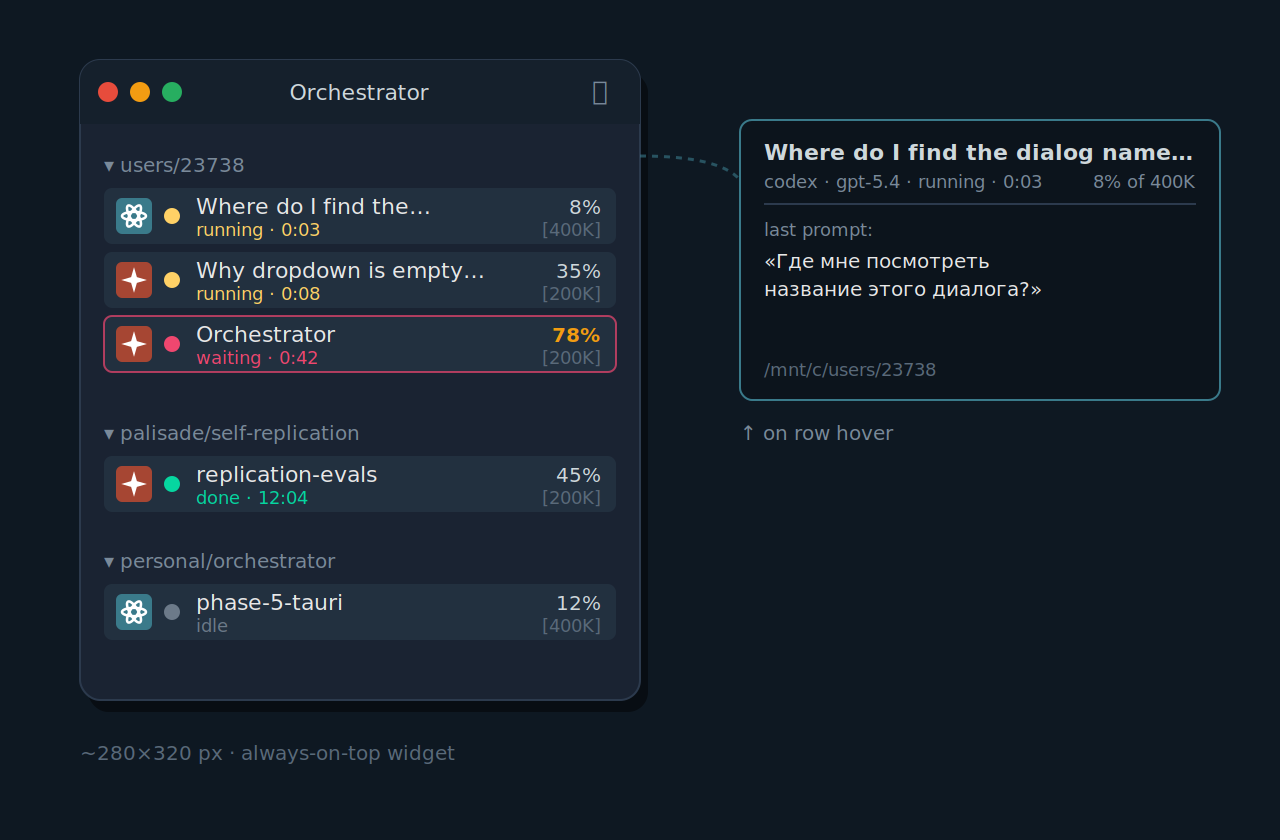
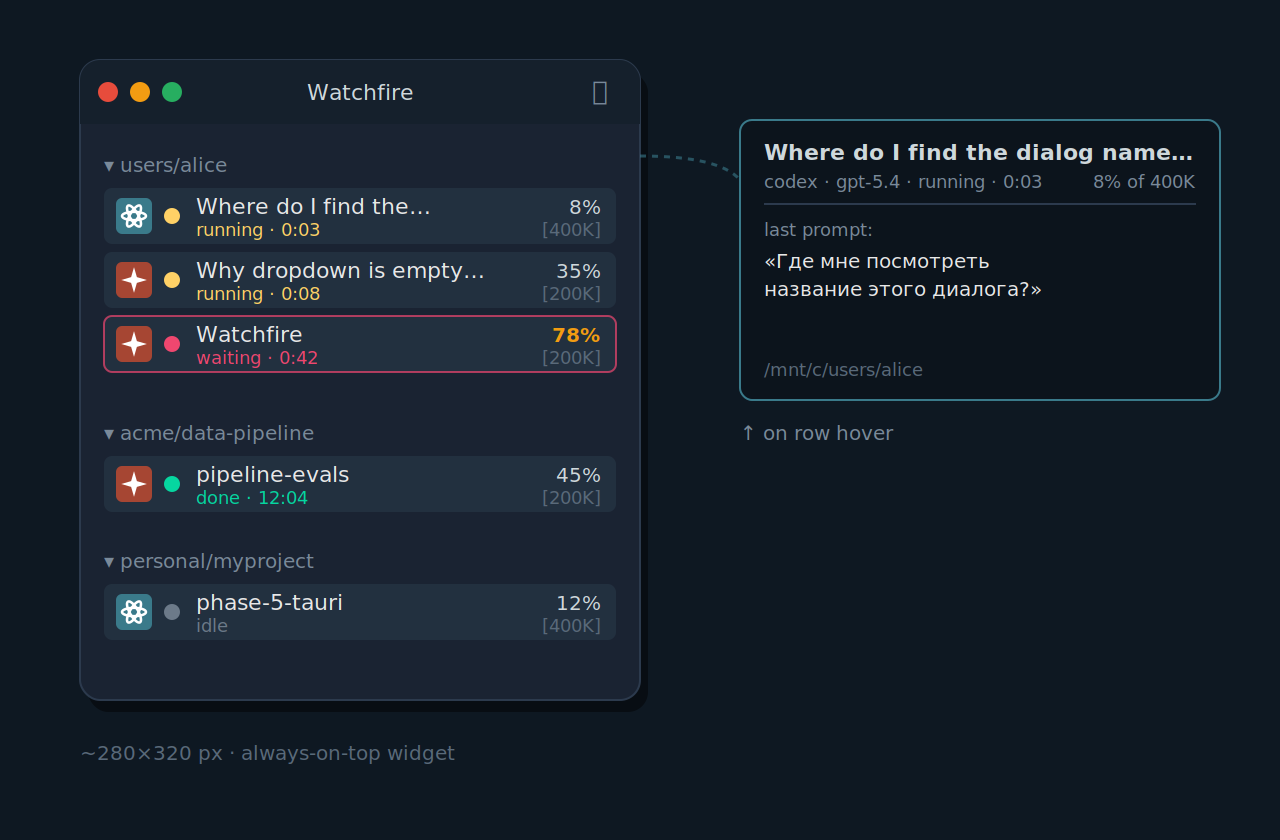
chore: scrub personal identifiers from the public repo
The repo is public, and tracked files carried the author's local account
names, directory layout and two private project names. Nothing secret —
no keys, tokens or credentials — but none of it belongs here, and the
hardcoded paths also made the example hook configs wrong on any other
machine.

- docs/install/*.json: the hook command path becomes /path/to/watchfire,
  so the examples are now placeholders to fill in rather than one
  machine's absolute paths.
- docs/watchfire_mockup.svg + .png: sample rows use alice / acme
  data-pipeline. The PNG is re-rendered from the SVG, which also picks up
  the rename the SVG already had and the PNG still showed (Orchestrator).
- tests, and comments in emit_state.py / index.js: neutral stand-ins.

Behaviour is untouched; only fixture and comment strings moved.

One test got sharper as a side effect. test_wsl_drive_cwd_is_lowercased
used a digits-only account name, so lowercasing it was a no-op and the
assertion could not see what the hook does to that segment. With an
alphabetic name it is visible: the hook folds the drive letter and the
`Users` literal but leaves the account segment's case alone. That is what
the code documents, so the test now asserts it explicitly.

Suite green: 33 pytest + 48 server + 62 widget.

diff --git a/tests/server/chats-all.test.js b/tests/server/chats-all.test.js
@@ -49,19 +49,19 @@ test("listAllChats merges claude + codex from all cwds", async () => {
 });
 
 test("listAllChats reads cwd from the claude transcript itself, not the flattened dir name", async () => {
-  // Reverse-flattening `-home-nj-projects-palisade-self-replication` to a
+  // Reverse-flattening `-home-u-projects-acme-data-pipeline` to a
   // path loses the hyphen vs slash distinction. The transcript's `cwd`
-  // field is the source of truth — `self-replication` (one segment), not
+  // field is the source of truth — `data-pipeline` (one segment), not
   // `self/replication` (two).
   const claudeDir = await tmpDir("ca-claude-cwd");
   await writeJsonl(
-    path.join(claudeDir, "-home-nj-projects-palisade-self-replication", "s.jsonl"),
-    [{ type: "user", cwd: "/home/nj/projects/palisade/self-replication",
+    path.join(claudeDir, "-home-u-projects-acme-data-pipeline", "s.jsonl"),
+    [{ type: "user", cwd: "/home/u/projects/acme/data-pipeline",
        message: { content: "x" } }],
   );
   const out = await listAllChats({ claudeDir, codexDir: await emptyCodexDir(), codexCache: freshCache() });
   assert.equal(out.length, 1);
-  assert.equal(out[0].cwd, "/home/nj/projects/palisade/self-replication");
+  assert.equal(out[0].cwd, "/home/u/projects/acme/data-pipeline");
 });
 
 test("listAllChats falls back to reverse-flattened name when transcript has no cwd field", async () => {
@@ -101,9 +101,9 @@ test("listAllChats skips cron-sandbox project dirs (daily-summary, meeting-summa
   const claudeDir = await tmpDir("ca-claude-cron");
   // Two cron-sandbox dirs and one real one.
   for (const dir of [
-    "-home-nj--claude-daily-summary-2026-05",
-    "-home-nj--claude-meeting-summaries-2026-05",
-    "-home-nj-projects-real",
+    "-home-u--claude-daily-summary-2026-05",
+    "-home-u--claude-meeting-summaries-2026-05",
+    "-home-u-projects-real",
   ]) {
     await writeJsonl(
       path.join(claudeDir, dir, "s.jsonl"),

diff --git a/tests/server/chats.test.js b/tests/server/chats.test.js
@@ -87,13 +87,13 @@ test("extractCodexTranscriptMeta uses session_meta.payload.cwd", async () => {
   const dir = await tmpDir("codex-meta");
   const fp = path.join(dir, "rollout-2026-01-01T00-00-00-019d1234-5678-7abc-9def-0123456789ab.jsonl");
   await writeJsonl(fp, [
-    { type: "session_meta",  payload: { cwd: "/home/nj/proj" } },
+    { type: "session_meta",  payload: { cwd: "/home/u/proj" } },
     { type: "response_item", payload: { type: "message", role: "user",
-        content: [{ type: "input_text", text: "<environment_context><cwd>/home/nj/proj</cwd></environment_context>" }] } },
+        content: [{ type: "input_text", text: "<environment_context><cwd>/home/u/proj</cwd></environment_context>" }] } },
     { type: "event_msg", payload: { type: "user_message", message: "real first prompt" } },
   ]);
   const meta = await extractCodexTranscriptMeta(fp);
-  assert.equal(meta.cwd, "/home/nj/proj");
+  assert.equal(meta.cwd, "/home/u/proj");
   assert.equal(meta.first_prompt, "real first prompt");
   assert.equal(meta.session_id, "019d1234-5678-7abc-9def-0123456789ab");
   assert.equal(meta.agent, "codex");

diff --git a/server/index.js b/server/index.js
@@ -90,8 +90,8 @@ async function handleRequest(req, res) {
     let body = {};
     try { body = await readBody(req); } catch {}
     // Prefer the user-set name (set via /rename — Claude pushes that to the
-    // terminal title). Fallback to the last cwd segment ("23738",
-    // "self-replication", …) — usually present in default WT tab titles.
+    // terminal title). Fallback to the last cwd segment ("alice",
+    // "my-project", …) — usually present in default WT tab titles.
     const lastCwd = body.cwd ? String(body.cwd).split("/").filter(Boolean).pop() : "";
     const tabName = body.name || lastCwd || "";
     const result = await focusWindowsTerminal(tabName);

diff --git a/tests/widget/format.test.js b/tests/widget/format.test.js
@@ -11,9 +11,9 @@ import {
 // --- shortPath ------------------------------------------------------------
 
 test("shortPath returns last two segments", () => {
-  assert.equal(shortPath("/home/nj/projects/palisade/self-replication"),
-               "palisade/self-replication");
-  assert.equal(shortPath("/mnt/c/users/23738"), "users/23738");
+  assert.equal(shortPath("/home/u/projects/acme/data-pipeline"),
+               "acme/data-pipeline");
+  assert.equal(shortPath("/mnt/c/users/alice"), "users/alice");
 });
 
 test("shortPath handles short and missing paths", () => {

diff --git a/tests/widget/history.test.js b/tests/widget/history.test.js
@@ -155,8 +155,8 @@ test("renderHistoryByTimeHtml shows project tag inline next to each row", () => 
   // "by time" view shows shortPath(cwd) so the user knows which project
   // each chat belonged to without scrolling back to a group header.
   const html = renderHistoryByTimeHtml([
-    c({ name: "n", cwd: "/home/nj/projects/palisade/self-replication",
+    c({ name: "n", cwd: "/home/u/projects/acme/data-pipeline",
         last_modified: MS(NOW - 60) }),
   ], NOW);
-  assert.match(html, /palisade\/self-replication/);
+  assert.match(html, /acme\/data-pipeline/);
 });

diff --git a/tests/hooks/test_filters.py b/tests/hooks/test_filters.py
@@ -15,7 +15,7 @@ def test_daily_summary_cwd_writes_nothing(run_hook, state_dir):
     out = run_hook({
         "session_id": "s1",
         "hook_event_name": "UserPromptSubmit",
-        "cwd": "/home/nj/.claude-daily-summary/2026-05",
+        "cwd": "/home/u/.claude-daily-summary/2026-05",
         "prompt": "summarize",
     })
     assert out is None
@@ -26,7 +26,7 @@ def test_meeting_summary_cwd_writes_nothing(run_hook, state_dir):
     out = run_hook({
         "session_id": "s1",
         "hook_event_name": "UserPromptSubmit",
-        "cwd": "/home/nj/.claude-meeting-summaries/2026-05",
+        "cwd": "/home/u/.claude-meeting-summaries/2026-05",
         "prompt": "summarize",
     })
     assert out is None
@@ -47,18 +47,21 @@ def test_wsl_drive_cwd_is_lowercased(run_hook):
     s = run_hook({
         "session_id": "s1",
         "hook_event_name": "SessionStart",
-        "cwd": "/mnt/c/Users/23738",
+        "cwd": "/mnt/c/Users/Alice",
     })
-    assert s["cwd"] == "/mnt/c/users/23738"
+    # Only the drive letter and the `Users` literal are folded — the account
+    # segment keeps its case. That's the whole difference Codex introduces
+    # (/mnt/c/Users -> /mnt/c/users); folding further would be guesswork.
+    assert s["cwd"] == "/mnt/c/users/Alice"
 
 
 def test_wsl_non_drive_cwd_is_left_alone(run_hook):
     s = run_hook({
         "session_id": "s1",
         "hook_event_name": "SessionStart",
-        "cwd": "/home/nj/projects/Palisade/Self-Replication",
+        "cwd": "/home/u/projects/Acme/Mixed-Case",
     })
-    assert s["cwd"] == "/home/nj/projects/Palisade/Self-Replication"
+    assert s["cwd"] == "/home/u/projects/Acme/Mixed-Case"
 
 
 # --- model_limit ----------------------------------------------------------
@@ -116,7 +119,7 @@ def test_agent_tty_rejects_non_tty(monkeypatch):
     escapes into a file. /dev/tty itself is rejected too (we want the concrete
     pts, and opening /dev/tty from the hook fails with ENXIO anyway)."""
     import os, emit_state
-    monkeypatch.setattr(os, "readlink", lambda p: "/home/nj/session.log")
+    monkeypatch.setattr(os, "readlink", lambda p: "/home/u/session.log")
     assert emit_state.agent_tty(123) is None
     monkeypatch.setattr(os, "readlink", lambda p: "/dev/tty")
     assert emit_state.agent_tty(123) is None

diff --git a/tests/hooks/test_transcript_parsing.py b/tests/hooks/test_transcript_parsing.py
@@ -124,13 +124,13 @@ def test_extract_claude_meta_no_match_returns_blanks(tmp_path):
 
 CODEX_TRANSCRIPT = "\n".join([
     json.dumps({"type": "session_meta", "payload": {
-        "id": "019d-...", "cwd": "/home/nj/proj"}}),
+        "id": "019d-...", "cwd": "/home/u/proj"}}),
     # The first user 'message' is the synthetic environment_context — must
     # NOT be picked as first_prompt.
     json.dumps({"type": "response_item", "payload": {
         "type": "message", "role": "user",
         "content": [{"type": "input_text",
-                     "text": "<environment_context><cwd>/home/nj/proj</cwd></environment_context>"}],
+                     "text": "<environment_context><cwd>/home/u/proj</cwd></environment_context>"}],
     }}),
     json.dumps({"type": "event_msg", "payload": {
         "type": "user_message", "message": "real first prompt"}}),
@@ -192,7 +192,7 @@ def test_codex_does_not_write_tab_title(run_hook):
     s = run_hook({
         "session_id": "cx-notitle",
         "hook_event_name": "UserPromptSubmit",
-        "cwd": "/home/nj/projects/personal/earbuddy",
+        "cwd": "/home/u/projects/personal/myapp",
         "prompt": "hi",
     }, agent="codex")
     assert "_tab_title" not in s

diff --git a/hooks/emit_state.py b/hooks/emit_state.py
@@ -464,7 +464,7 @@ def main() -> int:
     # Lowercase only the WSL drive prefix, not the whole path (case-sensitive elsewhere).
     if cwd.startswith("/mnt/"):
         parts = cwd.split("/")
-        # parts = ['', 'mnt', 'c', 'Users', '23738']  -> lowercase parts[2] AND parts[3]
+        # parts = ['', 'mnt', 'c', 'Users', 'Alice']  -> lowercase parts[2] AND parts[3]
         if len(parts) >= 4:
             parts[2] = parts[2].lower()
             parts[3] = parts[3].lower()
